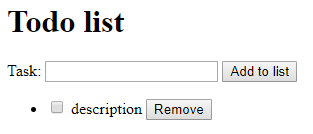
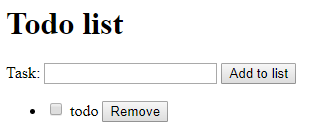
simplification

diff --git a/README.md b/README.md
@@ -51,7 +51,7 @@ ul @TodoList
   li @TodoItem
 
     checkbox @done 
-    @description 
+    @description "todo"
     button "Remove" @remove
 ```
 
@@ -68,7 +68,7 @@ Task:
 
   <li name="TodoItem">
     <input id="Done" type="checkbox">
-    <span id="Description">#description</span>
+    <span id="Description">todo</span>
     <Button id="Remove">Remove</button>
   </li>
 
@@ -77,27 +77,64 @@ Task:
 
 ### TodoListWidget.js 
 ```javascript
-var TodoListWidget = {
+Task: '',
 
-  Task: '',
+Add: (Task,onKeyUp) => 
+  this.Enabled = (Task == '')
+
+TodoItem: {
+  Description: {
+    class: (Done) => Done?"removed":""
+    }
+},
+	
+TodoList: {
+  remove: (Remove,TodoItem) => 
+    TodoItem.Done == false,
+  add: (Add,TodoItem,TodoList) => 
+    TodoList.push(TodoItem),
+}
+```
+
+#### TodoListWidget.js explained
+```javascript
+/* wrapped by NTE with
+   var TodoListWidget = {
+   */
+
+/* init de value of the model
+   that reflect to the view */
+
+Task: '',
+
+/* 'this' point to the control
+   'onKeyUp' link the relative
+   event of Task to this function */
+   
+Add: (Task,onKeyUp) => 
+  this.Enabled = (Task == '')
+
+TodoItem: {
+  Description: {
+  
+    /* on change of Done, change
+       the style of 'Description' */
     
-  Add: (Task,onKeyUp) => 
-    this.Enabled = (Task == '')
+    class: (Done) => Done?"removed":""
+    }
+},
+	
+TodoList: {
 
-  TodoItem: {
-    Description: {
-	  class: (Done) => Done?"removed":""
-      }
-  },
-	
-  TodoList: {
-    remove: (Remove,TodoItem) => 
-      TodoItem.Done == false,
-    add: (Add,TodoItem) => 
-      TodoList.push(TodoItem),
-  }
-	
-} // TodoListWidget
+  /* on change (click) of Remove or Add,
+     call relatives functions, with relative
+     models */
+
+  remove: (Remove,TodoItem) => 
+    TodoItem.Done == false,
+  add: (Add,TodoItem,TodoList) => 
+    TodoList.push(TodoItem),
+}
 ```
 
 **Advantages**
